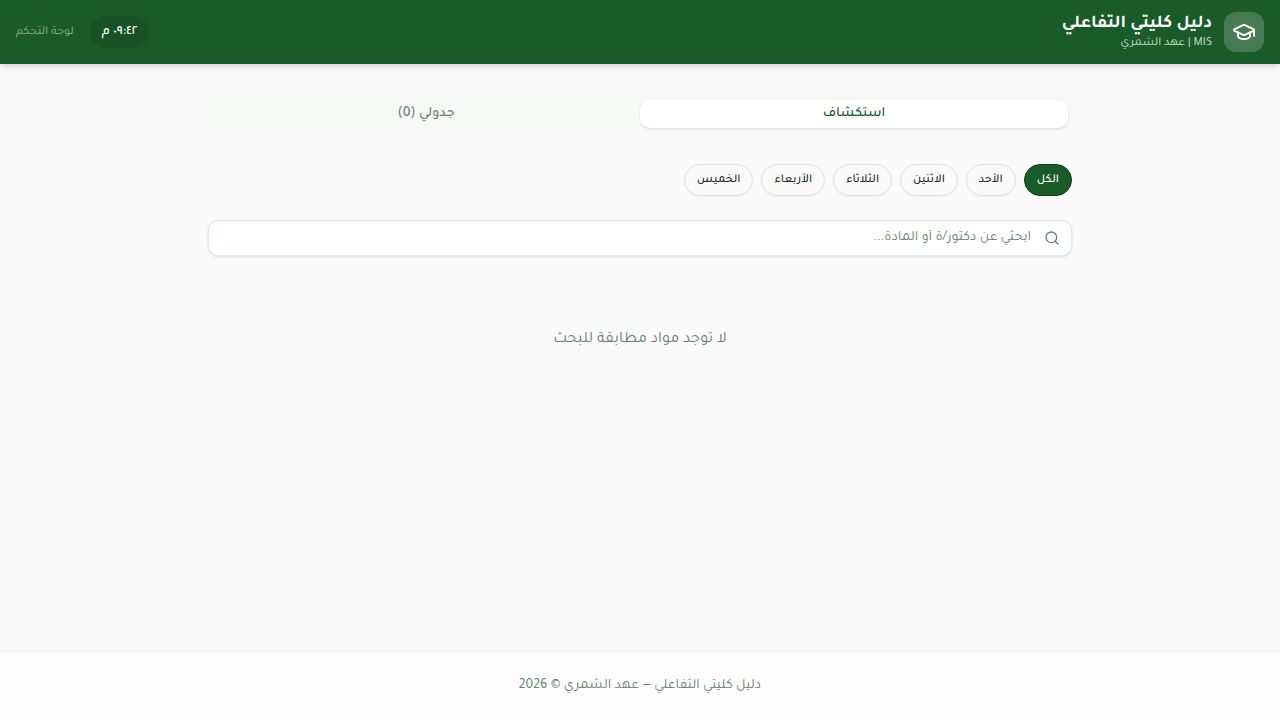
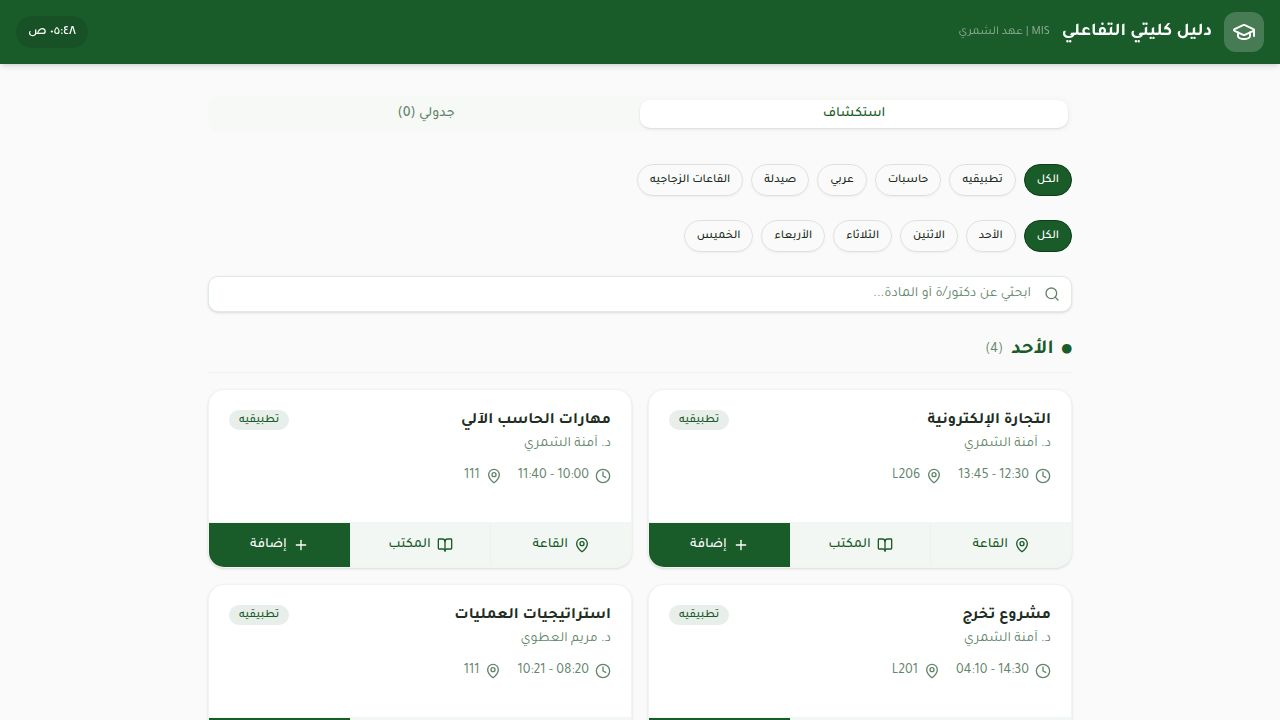
Improve data fetching and prevent accidental data loss
Configure React Query to prevent unnecessary data refetches and avoid temporary empty states by setting a staleTime and disabling refetch on window focus.

Replit-Commit-Author: Agent
Replit-Commit-Session-Id: aa8c7177-4e5d-40fb-9b70-902e7d14caf6
Replit-Commit-Checkpoint-Type: full_checkpoint
Replit-Commit-Event-Id: 5dea7132-0a90-44ea-81be-e93039d85a7b
Replit-Commit-Screenshot-Url: https://storage.googleapis.com/screenshot-production-us-central1/887e6c30-06da-4668-b4bb-6a923d6e6f67/aa8c7177-4e5d-40fb-9b70-902e7d14caf6/u1fFhNB
Replit-Helium-Checkpoint-Created: true

diff --git a/artifacts/college-guide/src/App.tsx b/artifacts/college-guide/src/App.tsx
@@ -7,7 +7,15 @@ import Home from "@/pages/home";
 import Admin from "@/pages/admin";
 import { AdminGuard } from "@/components/AdminGuard";
 
-const queryClient = new QueryClient();
+const queryClient = new QueryClient({
+  defaultOptions: {
+    queries: {
+      staleTime: 1000 * 60 * 10,
+      refetchOnWindowFocus: false,
+      retry: 2,
+    },
+  },
+});
 
 function Router() {
   return (